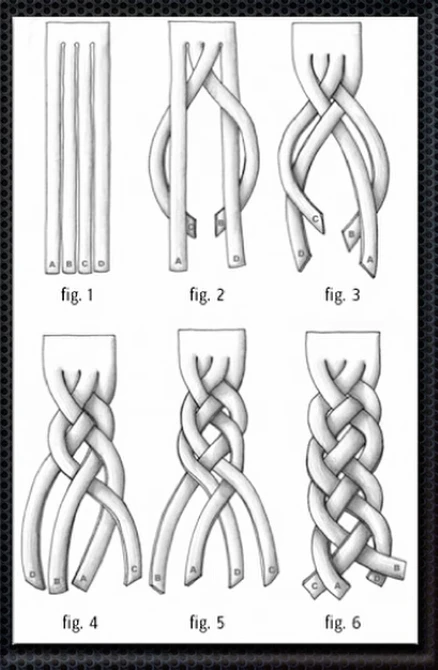
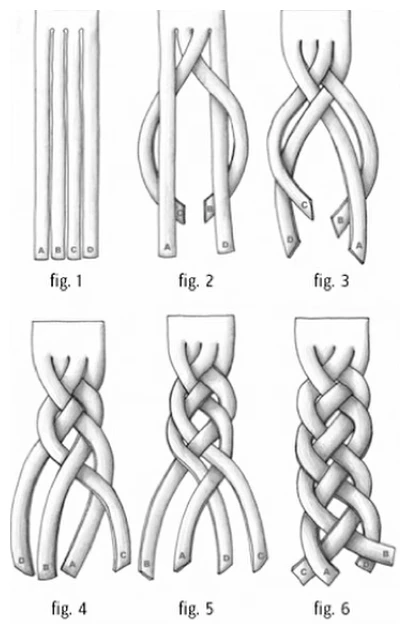
Move braid illustration into margin and clarify quote attribution

diff --git a/src/styles/site.css b/src/styles/site.css
@@ -306,6 +306,7 @@ h3.group-head {
 .prose {
   padding: var(--gutter);
   max-width: min(var(--text-max), calc(var(--measure) + 2 * var(--gutter)));
+  text-align: left;
 }
 .prose > :first-child {
   margin-top: 0;
@@ -350,7 +351,7 @@ h3.group-head {
   border: var(--rule) solid var(--fg);
 }
 .prose:has(.slide-figure) {
-  display: flow-root;
+  position: relative;
 }
 .prose .slide-figure {
   width: min(160px, 100%);
@@ -358,6 +359,7 @@ h3.group-head {
 }
 .prose .slide-figure img {
   margin-inline: auto;
+  border: 0;
 }
 .prose .slide-figure figcaption {
   margin-top: 0.5em;
@@ -365,18 +367,20 @@ h3.group-head {
   text-align: center;
   opacity: 0.75;
 }
-@container main (min-width: 720px) {
+@container main (min-width: 960px) {
   .prose .slide-figure {
-    float: right;
-    margin: 0 0 1em 1.5em;
+    position: absolute;
+    left: calc(100% + 1em);
+    margin: 0;
   }
 }
 .prose blockquote {
   margin: 1.25em 0;
-  padding: 0;
-  border: 0;
-  font-style: italic;
-  font-synthesis: style;
+  padding: 0.25em 0 0.25em 1em;
+  border-left: var(--rule) solid var(--fg);
+}
+.prose blockquote > :last-child {
+  margin-bottom: 0;
 }
 .prose hr {
   border: 0;

diff --git a/content/blog/i-think-i-finally-get-lisp.md b/content/blog/i-think-i-finally-get-lisp.md
@@ -34,15 +34,17 @@ Then there's [Pathom](https://pathom3.wsscode.com/), which is insane. You descri
 
 Having been a platform/DevOps engineer before, this is the part that got me. Whether we're on serverless, GCP, or AWS leaks into the code, and it shouldn't. It makes moving actual infrastructure hard, let alone moving modules of code from one service to another. Hickey has a line in [Simple Made Easy](https://www.youtube.com/watch?v=LKtk3HCgTa8&t=3014s) that I can't stop thinking about:
 
-> I don't know, I don't want to know.
+> "I don't know, I don't want to know."
+>
+> — [Rich Hickey](https://www.youtube.com/watch?v=LKtk3HCgTa8&t=3014s)
 
 It just makes complete sense.
 
 <figure class="slide-figure">
-  <a href="/static/simple-made-easy-braid.webp" title="View the full-size braid illustration">
-    <img src="/static/simple-made-easy-braid.webp" width="438" height="670" alt="Six diagrams show four independent strands becoming a tightly interwoven braid." />
+  <a href="/static/simple-made-easy-braid.webp?v=2" title="View the full-size braid illustration">
+    <img src="/static/simple-made-easy-braid.webp?v=2" width="410" height="634" alt="Six diagrams show four independent strands becoming a tightly interwoven braid." />
   </a>
-  <figcaption>Complecting independent concerns makes them harder to change separately. From Rich Hickey's <a href="https://www.infoq.com/presentations/Simple-Made-Easy/">Simple Made Easy</a>.</figcaption>
+  <figcaption>Complecting independent concerns makes them harder to change separately.<br />— <a href="https://www.infoq.com/presentations/Simple-Made-Easy/">Rich Hickey, Simple Made Easy</a></figcaption>
 </figure>
 
 None of this is baked into Clojure. It's all libraries, but because the language itself is data, extending it this way feels natural. Even static typing isn't built in. It could just be a library, which is so cool and makes complete sense. I've spent years finding patterns in Python to get some of this, and Clojure just inverts all of it. I've understood code as data and syntax trees for a while, but seeing what it enables is something else.
